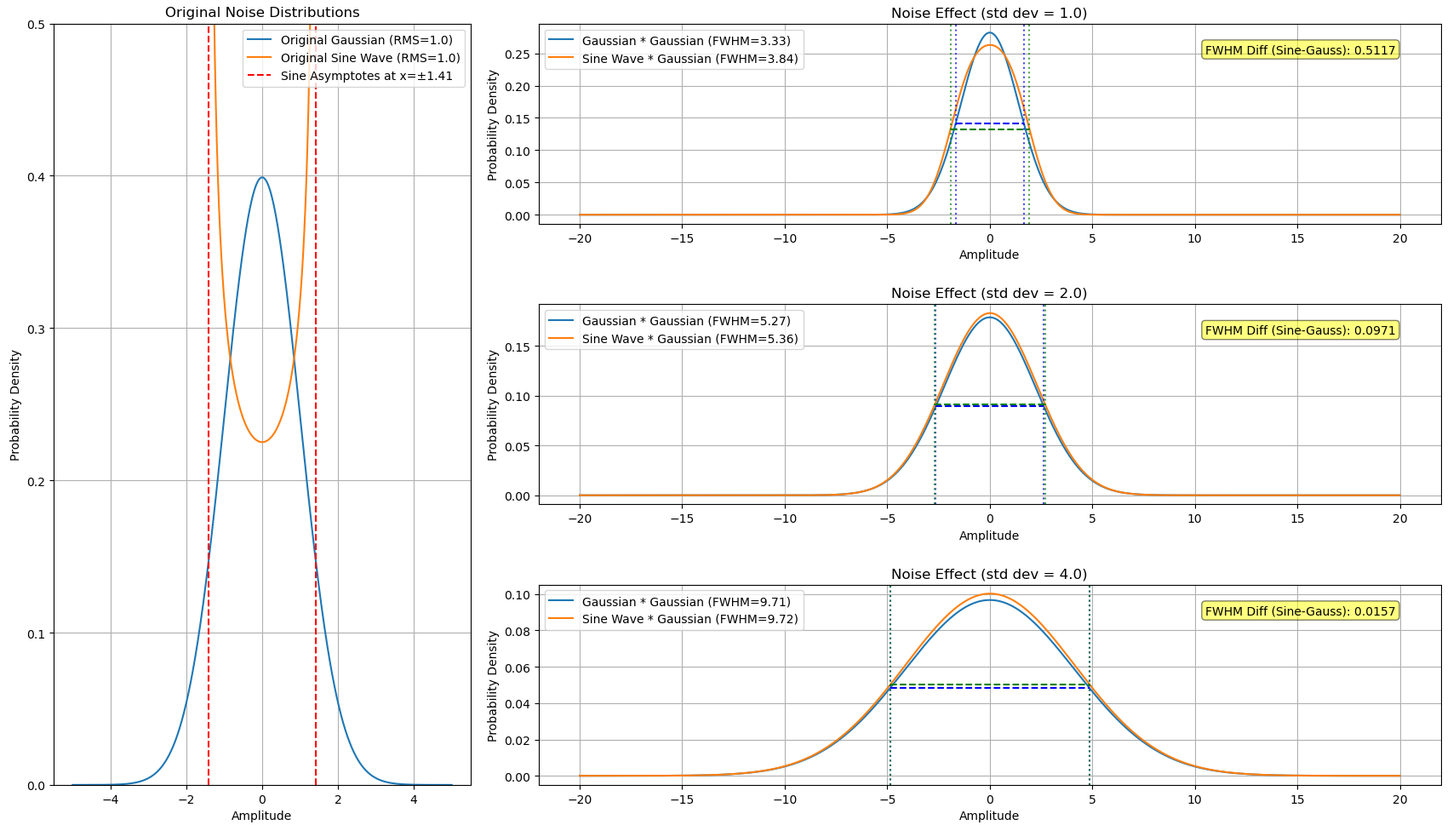
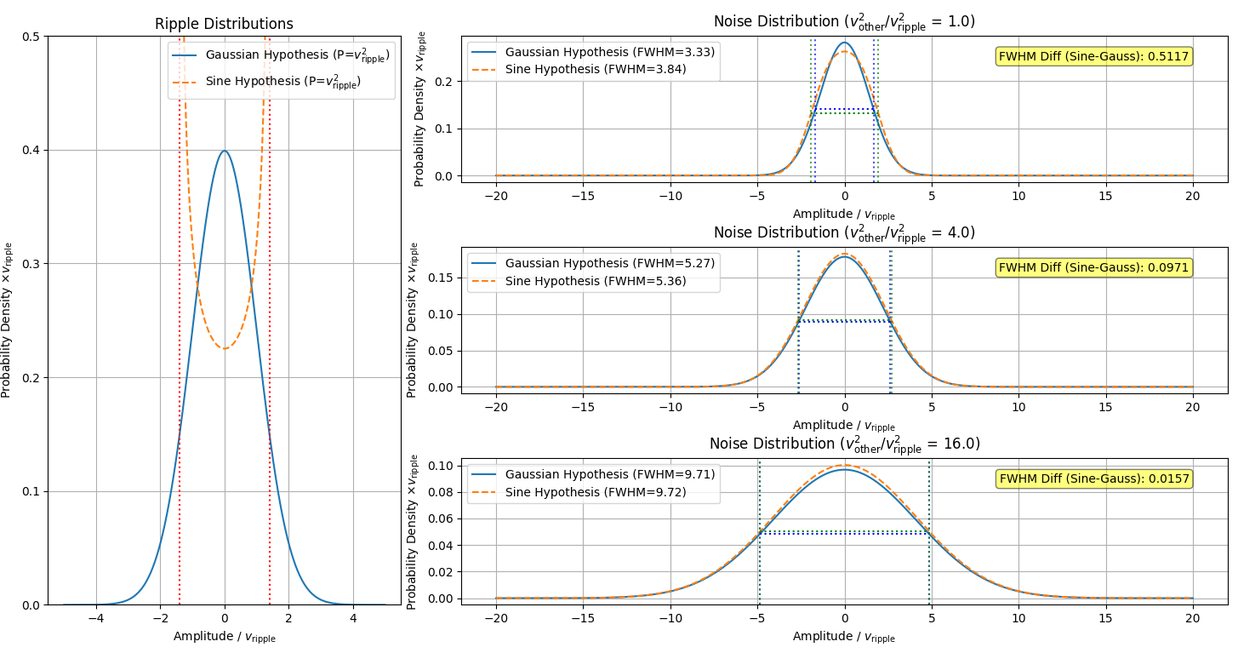
Update .gitignore, enhance FWHM analysis, and refine noise distribution plots
- Added test file patterns to .gitignore to exclude test artifacts.
- Improved plot labels in fwhm_analysis.py for clarity and consistency.
- Updated noise_distribution.py to enhance plot titles and labels for better understanding.
- Adjusted simulation script in main.py to utilize a new CircuitSimulator class for cleaner code and improved simulation management.
- Added new images for documentation and analysis results.

diff --git a/sys_simulate/circuit_simulator.py b/sys_simulate/circuit_simulator.py
@@ -1,0 +1,70 @@
+import os
+import numpy as np
+from PySpice.Spice.Netlist import Circuit
+from PySpice.Unit import *
+
+class CircuitSimulator:
+    """
+    Handles the PySpice circuit simulation.
+    """
+    def __init__(self, step_time=1@u_us, end_time=3000@u_ms):
+        """
+        Initializes the simulator with timing parameters.
+        """
+        self.script_dir = os.path.dirname(os.path.abspath(__file__))
+        self.step_time = step_time
+        self.end_time = end_time
+        self.output_filename = os.path.join(self.script_dir, 'simulation_output_temp.csv')
+
+    def _setup_circuit(self, ripple_amplitude_V, ripple_frequency_Hz):
+        """
+        Sets up the circuit with specific ripple parameters.
+        """
+        circuit = Circuit('Circuit Simulation for FWHM Analysis')
+        library_path = os.path.join(self.script_dir, 'UniversalOpAmp2.lib')
+        circuit.include(library_path)
+        circuit_path = os.path.join(self.script_dir, 'my_circuit.cir')
+        circuit.include(circuit_path)
+        
+        # Add sources
+        circuit.PulseCurrentSource('charge_injection_pulse', 'N006', 'N003',
+                                   initial_value=0@u_A, pulsed_value=0.4@u_uA,
+                                   delay_time=0.1@u_ms, rise_time=1@u_ns, fall_time=1@u_ns,
+                                   pulse_width=1@u_us, period=0.987@u_ms)
+        circuit.SinusoidalVoltageSource('ripple', 'Vin', circuit.gnd,
+                                        amplitude=ripple_amplitude_V@u_V,
+                                        frequency=ripple_frequency_Hz@u_Hz)
+        return circuit
+
+    def run_simulation(self, ripple_amplitude_V, ripple_frequency_Hz):
+        """
+        Runs the simulation and saves the output to a CSV file.
+        
+        Args:
+            ripple_amplitude_V (float): The amplitude of the ripple voltage in Volts.
+            ripple_frequency_Hz (float): The frequency of the ripple in Hertz.
+            
+        Returns:
+            str: The path to the output CSV file.
+        """
+        circuit = self._setup_circuit(ripple_amplitude_V, ripple_frequency_Hz)
+        simulator = circuit.simulator(temperature=25, nominal_temperature=25)
+        analysis = simulator.transient(step_time=self.step_time, end_time=self.end_time)
+
+        output_data = np.vstack((
+            np.array(analysis.time),
+            np.array(analysis['Vin']),
+            np.array(analysis['Vout'])
+        )).T
+        
+        np.savetxt(self.output_filename, output_data,
+                   delimiter=',', header='time_s,vin_V,vout_V', comments='')
+        
+        return self.output_filename
+
+    def cleanup(self):
+        """
+        Removes the temporary simulation output file.
+        """
+        if os.path.exists(self.output_filename):
+            os.remove(self.output_filename)

diff --git a/sys_simulate/main.py b/sys_simulate/main.py
@@ -6,6 +6,7 @@ from PySpice.Unit import *
 
 from analyze_spectrum import SpectrumAnalyzer
 from ripple_calculation import RippleCalculator
+from circuit_simulator import CircuitSimulator
 
 def run_simulation_and_analysis(ripple_amplitude_V, ripple_frequency_Hz, noise_kev, calculator, plotFig=False, plotWave=False):
     """
@@ -13,30 +14,8 @@ def run_simulation_and_analysis(ripple_amplitude_V, ripple_frequency_Hz, noise_k
     Also calculates the theoretical FWHM for comparison.
     """
     # --- 1. Run PySpice Simulation ---
-    # (Simulation logic remains the same)
-    circuit = Circuit('Circuit Simulation for FWHM Analysis')
-    script_dir = os.path.dirname(os.path.abspath(__file__))
-    library_path = os.path.join(script_dir, 'UniversalOpAmp2.lib')
-    circuit.include(library_path)
-    circuit_path = os.path.join(script_dir, 'my_circuit.cir')
-    circuit.include(circuit_path)
-    circuit.PulseCurrentSource('charge_injection_pulse', 'N006', 'N003',
-                               initial_value=0@u_A, pulsed_value=0.4@u_uA,
-                               delay_time=0.1@u_ms, rise_time=1@u_ns, fall_time=1@u_ns,
-                               pulse_width=1@u_us, period=0.987@u_ms)
-    circuit.SinusoidalVoltageSource('ripple', 'Vin', circuit.gnd, 
-                                    amplitude=ripple_amplitude_V@u_V, 
-                                    frequency=ripple_frequency_Hz@u_Hz)
-    simulator = circuit.simulator(temperature=25, nominal_temperature=25)
-    analysis = simulator.transient(step_time=1@u_us, end_time=3000@u_ms)
-    output_filename = os.path.join(script_dir, 'simulation_output_temp.csv')
-    output_data = np.vstack((
-        np.array(analysis.time),
-        np.array(analysis['Vin']),
-        np.array(analysis['Vout'])
-    )).T
-    np.savetxt(output_filename, output_data,
-               delimiter=',', header='time_s,vin_V,vout_V', comments='')
+    simulator = CircuitSimulator()
+    output_filename = simulator.run_simulation(ripple_amplitude_V, ripple_frequency_Hz)
 
     # --- 2. Analyze Simulation Output ---
     analyzer = SpectrumAnalyzer(threshold=1.0)
@@ -44,7 +23,7 @@ def run_simulation_and_analysis(ripple_amplitude_V, ripple_frequency_Hz, noise_k
     analyzer.analyze(fit_spectrum=True)
     analyzer.add_gaussian_noise(noise_kev=noise_kev, enabled=True)
     analyzer.plot_results(show_waveform=plotWave, show_plot=plotFig)
-    os.remove(output_filename)
+    simulator.cleanup()
     simulated_fwhm = analyzer.last_fwhm_kev
 
     # --- 3. Calculate Theoretical FWHM ---

diff --git a/noise_distribution.py b/noise_distribution.py
@@ -29,11 +29,11 @@ def plot_noise_comparison(v=1.0, v_conv_list=[1.0, 2.0, 4.0]):
     with np.errstate(divide='ignore'):
         sine_pdf[sine_domain_mask] = 1 / (np.pi * np.sqrt(A**2 - x_sine_left**2))
 
-    ax_left.plot(x_left / v, gaussian_pdf * v, label=r'Original Gaussian (RMS=$v_{\text{ripple}}$)')
-    ax_left.plot(x_left / v, sine_pdf * v, linestyle='--', label=r'Original Sine Wave (RMS=$v_{\text{ripple}}$)')
-    ax_left.axvline(x=A / v, color='r', linestyle=':', label=r'Sine Asymptotes at x=$\pm\sqrt{2}v_{\text{ripple}}$')
+    ax_left.plot(x_left / v, gaussian_pdf * v, label=r'Gaussian Hypothesis (P=$v_{\text{ripple}}^2$)')
+    ax_left.plot(x_left / v, sine_pdf * v, linestyle='--', label=r'Sine Hypothesis (P=$v_{\text{ripple}}^2$)')
+    ax_left.axvline(x=A / v, color='r', linestyle=':')
     ax_left.axvline(x=-A / v, color='r', linestyle=':')
-    ax_left.set_title('Original Noise Distributions')
+    ax_left.set_title('Ripple Distributions')
     ax_left.set_xlabel(r'Amplitude / $v_{\text{ripple}}$')
     ax_left.set_ylabel(r'Probability Density $\times v_{\text{ripple}}$')
     ax_left.legend()
@@ -81,8 +81,8 @@ def plot_noise_comparison(v=1.0, v_conv_list=[1.0, 2.0, 4.0]):
             fwhm_sine = np.nan
 
         # --- 绘图 ---
-        ax.plot(x_right / v, gaussian_convolved * v, label=f'Gaussian * Gaussian (FWHM={fwhm_gaussian/v:.2f})')
-        ax.plot(x_right / v, sine_convolved * v, linestyle='--', label=f'Sine Wave * Gaussian (FWHM={fwhm_sine/v:.2f})')
+        ax.plot(x_right / v, gaussian_convolved * v, label=f'Gaussian Hypothesis (FWHM={fwhm_gaussian/v:.2f})')
+        ax.plot(x_right / v, sine_convolved * v, linestyle='--', label=f'Sine Hypothesis (FWHM={fwhm_sine/v:.2f})')
         
         # FWHM 辅助线 - 高斯
         max_gauss_conv = np.max(gaussian_convolved)
@@ -108,7 +108,7 @@ def plot_noise_comparison(v=1.0, v_conv_list=[1.0, 2.0, 4.0]):
                     transform=ax.transAxes,
                     bbox=dict(boxstyle='round,pad=0.3', fc='yellow', alpha=0.5))
         
-        ax.set_title(f'Convolved Distribution (Gaussian std dev = {v_conv/v:.1f}' + r'$v_{\text{ripple}}$' + ')')
+        ax.set_title(f'Noise Distribution ($v^2_\mathrm{{other}}/v^2_\mathrm{{ripple}}$ = {(v_conv/v)**2:.1f}'+')')
         ax.set_xlabel(r'Amplitude / $v_{\text{ripple}}$')
         ax.set_ylabel(r'Probability Density $\times v_{\text{ripple}}$')
         ax.legend()

diff --git a/fwhm_analysis.py b/fwhm_analysis.py
@@ -92,15 +92,16 @@ def plot_fwhm_analysis(v_ratios, fwhm_diff_ratios):
     绘制 FWHM 相对差值 vs. (v_conv/v)^2 的关系图。
     """
     plt.figure(figsize=(10, 6))
-    plt.plot(v_ratios, fwhm_diff_ratios, 'bo-', label='Numerical Calculation')
+    plt.plot(v_ratios, fwhm_diff_ratios, 'bo-')
     
     plt.title('Relative FWHM Broadening: Sine vs. Gaussian Noise')
-    plt.xlabel(r'$v_{conv}^2 / v_\text{ripple}^2$ ((Detector Noise / Signal Noise)$^2$)')
+    plt.xlabel(r'$v_\mathrm{{other}}^2 / v_\mathrm{{ripple}}^2$')
     plt.ylabel('$(FWHM_{sine} - FWHM_{gauss}) / FWHM_{gauss, orig}$')
     plt.grid(True)
     plt.xscale('log') # v_conv/v 跨越数量级，使用对数坐标轴更佳
     plt.legend()
     plt.tight_layout()
+    plt.xlim(1e-2, 1e4)
     plt.show()
 
 if __name__ == '__main__':

diff --git a/draft/全文.md b/draft/全文.md
@@ -2,21 +2,21 @@
 
 ## 1 引言
 
-粒子辐射探测在空间物理、高能粒子物理及医学成像等领域至关重要[1，2，3]。粒子辐射探测器依赖高压电源，以扩大耗尽区并在耗尽区内形成强电场，驱动电离产生的电荷载流子(电子-空穴/离子对)向电极迁移，生成可测电信号。
+粒子辐射探测在空间物理、高能粒子物理及医学成像等领域至关重要[1，2，3]。粒子辐射探测器依赖高压开关电源，以扩大耗尽区并在耗尽区内形成强电场，驱动电离产生的电荷载流子(电子-空穴/离子对)向电极迁移，生成可测电信号。
 
-高压电源纹波通过各种耦合机制影响探测器输出，增加噪声，降低信噪比，并导致数据失真[4]。低纹波的高压电源可以确保探测器耗尽区电场的时间一致性，使载流子的漂移稳定;同时减少耦合到输出端的噪声，提高信噪比及能量分辨率[5]。以前人们对高压电源纹波对粒子辐射探测器系统噪声的影响的研究定性居多，缺少定量研究[6，7]。本文将从Si-PIN 型粒子辐射探测器电路结构出发，建立从高压电源纹波到探测器系统输出噪声的定量理论模型，并通过仿真和实验验证其适用性，为提升粒子辐射探测器的测量精度提供理论参考。
+高压开关电源纹波通过各种耦合机制影响探测器输出，增加噪声，降低信噪比，并导致数据失真[4]。低纹波的高压开关电源可以确保探测器耗尽区电场的时间一致性，使载流子的漂移稳定;同时减少耦合到输出端的噪声，提高信噪比及能量分辨率[5]。以前人们对高压开关电源纹波对粒子辐射探测器系统噪声的影响的研究定性居多，缺少定量研究[6，7]。本文将从Si-PIN 型粒子辐射探测器电路结构出发，建立从高压开关电源纹波到探测器系统输出噪声的定量理论模型，并通过系统仿真验证其适用性，为提升粒子辐射探测器的测量精度提供理论参考。
 
 ## 2 理论分析
 
 ### 2.1 电路分析
 
-对于 Si-PIN 型粒子辐射探测器系统，与高压电源纹波相关的电路可以大致分为电源滤波电路、电荷敏感前置放大器和整形放大电路三个部分，如图X所示。
+对于 Si-PIN 型粒子辐射探测器系统，与高压开关电源纹波相关的电路可以大致分为电源滤波电路、电荷敏感前置放大器和整形放大电路三个部分，如图X所示。
 
-![图X 高压电源纹波在探测器中的耦合过程]()
+![图X 高压开关电源纹波在探测器中的耦合过程](./overall_system.png)
 
-图1所示为电源滤波电路的等效电路，可以看作由两个RC 低通滤波器级联而成的二阶滤波架构，用于抑制高频噪声[8]。高压电源由BBV输入，经过该滤波网络后，通过H1端子为探测器提供偏置电压。
+图1所示为电源滤波电路的等效电路，可以看作由两个RC 低通滤波器级联而成的二阶滤波架构，用于抑制高频噪声[8]。高压开关电源由BBV输入，经过该滤波网络后，通过H1端子为探测器提供偏置电压。
 
-![图1 电源滤波等效电路](placeholder)
+![图1 电源滤波等效电路](./power_filter.png)
 
 图2所示为探测器与电荷敏感前置放大器的结构，探测器可以等效为一个二极管和结电容 $C_{\mathrm{d}}$ 并联。在完全耗尽的情况下，结电容 $C_{\mathrm{d}}$ 可由下式计算[14]:
 
@@ -26,7 +26,7 @@ $$
 
 其中 $A_{\mathrm{s}}$ 为探测器的等效正对面积(通常在 mm² 量级)，$D_{\mathrm{d}}$ 为探测器厚度(通常在 um 量级)。由此可计算得 $C_{\mathrm{d}}$ 通常在 pF 量级。
 
-![图2 探测器与电荷敏感前置放大器](placeholder)
+![图2 探测器与电荷敏感前置放大器](./detector.png)
 
 偏置电压 $V_{\mathrm{bias}}$ 的大小与探测器的厚度有关。耗尽层厚度 d 与偏置电压的关系为 $d = \sqrt{2\varepsilon_0\varepsilon_{\mathrm{r}}\mu V_{\mathrm{bias}} / \rho}$ [14]，为了使探测器完全耗尽，偏置电压至少应该满足
 
@@ -48,9 +48,9 @@ $C_{\mathrm{x}}$为隔直电容，其容值通常在nF到uF量级，用于阻隔
 
 ### 2.2 纹波模型
 
-如图X1所示，开关电源的纹波通常表现为周期性的锯齿波，主要由开关器件的 PWM 控制所引起[10]，其波形的上升沿和下降沿的斜率取决于开关频率、占空比以及控制策略，并直接决定了纹波幅度及其频谱分布[11]。
+如图X1所示，高压开关电源的纹波通常表现为周期性的锯齿波，主要由开关器件的 PWM 控制所引起[10]，其波形的上升沿和下降沿的斜率取决于开关频率、占空比以及控制策略，并直接决定了纹波幅度及其频谱分布[11]。
 
-![图X1 纹波波形](./ripple.png)
+![图X1 高压开关电源纹波波形](./ripple.png)
 
 为便于分析，将纹波波形等效为频率、功率相同的正弦波。实际观测到的纹波波形近似为锯齿波，其电压随时间线性变化。对于峰峰值为 $V_{\mathrm{ripple}}$、周期为 $T$ 的锯齿波，其电压可表示为 $v(t) = \frac{V_{\mathrm{ripple}}}{T}t - \frac{V_{\mathrm{ripple}}}{2}$（其中 $t \in [0, T]$）。该波形的归一化平均功率（即均方电压 $V_{\mathrm{rms}}^2$）为
 \[
@@ -70,10 +70,10 @@ V_{\mathrm{pp,sin}} = \sqrt{\frac{8}{12}}V_{\mathrm{ripple}} = \sqrt{\frac{2}{3}
 
 为定量计算高压开关电源纹波对探测器系统输出噪声的影响，需基于线性电路理论，分析其通过后续电路中频率响应[12]。具体方法为:首先建立纹波传播路径的传递函数模型，再将其与纹波电压频谱相乘，即可得到输出端信号的特征。
 电源电压从电源滤波电路的输入端接入，可将其等效为一个叠加于直流高压上的小幅值正弦交流电压源，并设其幅值为 $v_{\mathrm{ripple}}$，频率为 $f_{\mathrm{ripple}}$。
-电源滤波电路可建模为两个 RC 滤波器级的级联。式（4）为电源滤波电路的传递函数。
+电源滤波电路可建模为两个 RC 滤波器级的级联。电源滤波电路的传递函数为
 
 $$
-H_\text{powerFilter}(f) = \frac{1}{1 + j2\pi f R_1 C_1} \cdot \frac{1}{1 + j2\pi f R_2 C_2} \quad (4)
+H_\text{powerFilter}(f) = \frac{1}{1 + j2\pi f R_1 C_1} \cdot \frac{1}{1 + j2\pi f R_2 C_2}
 $$
 
 接下来分析偏置电压纹波耦合至 CSA 输出端的频率响应。在 $V_{\mathrm{bias}}$ 处叠加频率为 $f$ 的小幅值交流电压源 $u$，考虑到运算放大器的理想特性，其反相输入端为虚地，故认为该点电势为0。可求得探测器阳极电压$u_1$为
@@ -91,19 +91,19 @@ $$
 联立式(5)(6)，可得输出电压 $u_2$ 的表达式为
 
 $$
-u_2 = - \frac{j2\pi f C_{\mathrm{d}} R_{\mathrm{b}}}{(1 + j2\pi f C_{\mathrm{d}} R_{\mathrm{b}} + j2\pi f C_{\mathrm{d}} R_{\mathrm{b}})(j2\pi f C_{\mathrm{f}}(R_{\mathrm{s}} + 1/j2\pi f C_{\mathrm{f}}))} \quad (7)
+u_2 = - \frac{j2\pi f C_{\mathrm{d}} R_{\mathrm{b}}}{(1 + j2\pi f C_{\mathrm{d}} R_{\mathrm{b}} + j2\pi f C_{\mathrm{d}} R_{\mathrm{b}})(j2\pi f C_{\mathrm{f}}(R_{\mathrm{s}} + 1/j2\pi f C_{\mathrm{f}}))}
 $$
 
-从而，从探测器偏置端到 CSA 输出端的纹波耦合传递函数为式（8）。
+从而，从探测器偏置端到 CSA 输出端的纹波耦合传递函数为
 
 $$
-H_\text{csa}(f) = \frac{u_2}{u} = - \frac{j2\pi f C_{\mathrm{d}} R_{\mathrm{b}}}{(1 + j2\pi f C_{\mathrm{d}} R_{\mathrm{b}} + j2\pi f C_{\mathrm{d}} R_{\mathrm{b}})(j2\pi f C_{\mathrm{f}}(R_{\mathrm{s}} + 1/j2\pi f C_{\mathrm{f}}))} \quad (8)
+H_\text{csa}(f) = \frac{u_2}{u} = - \frac{j2\pi f C_{\mathrm{d}} R_{\mathrm{b}}}{(1 + j2\pi f C_{\mathrm{d}} R_{\mathrm{b}} + j2\pi f C_{\mathrm{d}} R_{\mathrm{b}})(j2\pi f C_{\mathrm{f}}(R_{\mathrm{s}} + 1/j2\pi f C_{\mathrm{f}}))}
 $$
 
-接下来计算整形放大电路的响应。假设整形电路的波形成形时间为$\tau$，增益为$A_0$，可计算其传递函数为式（9）。
+接下来计算整形放大电路的响应。假设整形电路的波形成形时间为$\tau$，增益为$A_0$，可计算其传递函数为
 
 $$
-H_\text{shaper}(f) = A_0 \frac{j2\pi f \tau}{(1 + j2\pi f \tau)^2} \quad (9)
+H_\text{shaper}(f) = A_0 \frac{j2\pi f \tau}{(1 + j2\pi f \tau)^2}
 $$
 
 综合考虑各级电路的频率响应，最终输出的纹波幅值为
@@ -115,7 +115,7 @@ $$
 换算成以 eV 为单位的半峰全宽（Full Width at Half Maximum, FWHM）[13]得
 
 $$
-\mathrm{FWHM} = 2.35\times3.62\times \frac{\mathrm{ENC}}{q} = 8.5 \cdot \frac{e\cdot v_{\mathrm{ripple,out}} \cdot C_{\mathrm{f}}}{A_0q} \quad (12)
+\mathrm{FWHM} = 2.35\times3.62\times \frac{\mathrm{ENC}}{q} = 8.5 \cdot \frac{e\cdot v_{\mathrm{ripple,out}} \cdot C_{\mathrm{f}}}{A_0q}
 $$
 
 其中 $e$ 为自然常数，$C_{\mathrm{f}}$ 为反馈电容值，$q$ 为元电荷量。
@@ -126,20 +126,19 @@ $$
 
 ### 3.1 仿真算法
 
-本文搭建了如图X2所示的探测器系统Spice仿真电路，包含电源滤波电路、探测器、电荷敏感放大器、整形放大电路。其中V1代表高压电源纹波（等效为正弦波），Id代表粒子射入产生的电流。
+本文基于 PySpice 框架搭建了如图X2所示的探测器系统Spice仿真电路，包含了电源滤波电路、PIN光电二极管等效电路、电荷敏感放大器及整形放大电路。小幅值正弦交流电压源V1模拟高压开关电源纹波，脉冲电流源Id模拟粒子射入产生的电流。
 
 ![图X2 探测器系统仿真电路](./circ_sim.png)
 
-本文设置Id为幅值$0.4\mathrm{\mu A}$，脉冲宽度$1\mathrm{\mu s}$，频率$1\mathrm{kHz}$的脉冲方波（等效为每秒1000个能量为$9.05\mathrm{MeV}$的粒子射入），其在探测器输出Vout的响应应为类高斯形脉冲（如图X3所示），其幅值与Id成正比。本文读取输出脉冲的高度并计数，模拟真实探测器的输出结果。
+根据探测器收到的粒子能量，仿真将Id设置为幅值$0.4\mathrm{\mu A}$、脉冲宽度$1\mathrm{\mu s}$、周期$0.987\mathrm{ms}$（频率约为$1013\mathrm{Hz}$）的脉冲电流，用以模拟$9.05\mathrm{MeV}$的粒子以每秒约1000个的通量射入探测器。系统对该电流脉冲的响应为在输出端Vout产生一个类高斯形的电压脉冲（如图X3所示），脉冲高度与粒子能量成正比。
 
 ![图X3 探测器输出响应](./circ_sim_response.png)
 
-将纹波V1分别设置为不同幅值和不同频率，并测量其对探测器输出Vout的影响，得到的结果如图X4所示。
+为模拟真实探测器的信号处理过程，本文对瞬态仿真输出波形进行分析，设置阈值（1.0V）来识别并测量每个输出脉冲的峰高，并将收集到的所有脉冲峰高数据构建成能谱。电源纹波会导致输出脉冲的基线波动，从而使能谱的峰位展宽。本文以能谱峰的FWHM作为关键指标，定量评估不同参数的纹波对探测器能量分辨率的影响。为更准确地反映真实探测器性能，本文在仿真中引入了额外的高斯噪声，以模拟电子学噪声等系统固有噪声源。此外，由于电源纹波并非高斯白噪声，导致的能谱展宽具有非高斯特性，直接计算FWHM存在困难，叠加高斯噪声可使展宽峰形近似于高斯分布，便于计算FWHM。关于纹波非高斯性的详细讨论见3.3节。图X4为纹波幅值$3.0\mathrm{V}$，纹波频率$10\mathrm{kHz}$，固有噪声$5.00\mathrm{keV}$的能谱结果，测得总噪声FWHM为$6.98\mathrm{keV}$，即纹波引入的噪声为$\sqrt{6.98^2-5.00^2}\mathrm{keV}\approx4.87\mathrm{keV}$。
 
-![图X4 纹波对探测器输出Vout的影响](./circ_sim_result.png)
+![图X4 探测器能谱结果](./circ_sim_fwhm.png)
 
-
-表1为仿真电路元件的各项参数。
+仿真使用的电路元件参数见表1。
 
 | 变量名 | 值 | 解释 |
 | :--- | :--- | :--- |
@@ -157,74 +156,35 @@ $$
 
 ### 3.2 仿真结果
 
+本文分别对纹波幅值$1.0\mathrm{V}$至$10.0\mathrm{V}$，纹波频率$100\mathrm{Hz}$至$100\mathrm{kHz}$的纹波对探测器输出Vout的影响进行了仿真，每次仿真3秒（约3000个峰值），并将仿真结果与理论计算结果进行比较，如图X5所示。虽然仿真结果在低频段（$<10\mathrm{kHz}$）显著小于理论结果，但在高频段（$>10\mathrm{kHz}$）与理论结果基本吻合，最高误差不超过5%。
 
+高压开关电源纹波的典型频率在60～300kHz之间[X1]，因此本文得出的模型对于高压开关电源纹波的适用性良好。
 
-### 3.3 高压电源纹波非随机性影响分析
+![图X5 纹波对探测器输出Vout的影响](./circ_sim_result.png)
 
-在噪声分析中，通常将噪声源视为高斯随机噪声，以便于将其功率换算成FWHM。但高压电源纹波通常包含确定的周期性分量(锯齿波或方波)，并非高斯随机噪声，因此由功率换算得到的FWHM是存在误差的。本节将分析高压电源纹波非高斯性的影响。
-如图5所示，本文中使用的高压电源纹波含有显著的方波分量。对其幅值分布进行统计，得到的结果如图9所示，呈现双峰分布的特征，与单峰高斯分布差异显著。
+### 3.3 纹波非高斯性影响分析
 
-![图9 电源纹波幅值分布](placeholder)
+在噪声分析中，通常将噪声源视为高斯白噪声[12]，其耦合到探测器输出端形成高斯形的能峰，可由FWHM衡量。但高压开关电源纹波通常包含确定的周期性分量(锯齿波或方波)，并非高斯白噪声，其耦合到探测器输出端通常成为基频谐波，无法直接用FWHM衡量。
 
-为模拟纹波在探测器系统耦合过程中的幅值分布变化，本文模拟了电源滤波电路的滤波过程，将实测纹波时域数据通过FFT变换为频域，通过(4)式进行滤波，再将结果变换为时域波形，得到的结果如图10和图11所示。经电源滤波电路滤波后，纹波幅值的分布更接近于单峰高斯分布。
+设纹波耦合到探测器输出端的功率为$v_\text{ripple}^2$，假设成为正弦波，则幅值分布为\[P_\text{sine}(x)=\frac{1}{\pi\sqrt{2v_\text{ripple}^2-x^2}}\]
 
-尽管滤波后的幅值分布并非是标准的高斯分布，但仿真结果表明，高压电源纹波引入的噪声仅约1keV，在总输出噪声中占比较小，因此纹波非高斯性引入的误差是可接受的。
+假设为高斯白噪声，则幅值分布为\[P_\text{gaussian}(x)=G(0, v_\text{ripple}^2)\]
 
-![图10 电源滤波电路对纹波波形的影响](placeholder)
-![图11 电源滤波电路对纹波幅值分布的影响](placeholder)
+设输出端固有噪声功率为$v_\text{other}^2$，两种假设下幅值分布分别为\[P_\text{total,sine}(x)=P_\text{sine}(x)*G(0, v_\text{other}^2)\]和\[P_\text{total,gaussian}(x)=P_\text{gaussian}(x)*G(0, v_\text{other}^2)=G(0, v_\text{other}^2+v_\text{ripple}^2)\]
 
-## 4 实验验证
+图X6、图X7展示了在两种假设下，在探测器输出端存在不同功率固有噪声时，纹波耦合到探测器输出端的幅值分布以及总FWHM差异。当固有噪声的功率超过纹波噪声两倍时，两种假设下的FWHM差异在5%以内，可以认为纹波非高斯性引入的误差是可接受的；当固有噪声的功率低于纹波噪声两倍时，两种假设下的FWHM差异最高可达约31%，需要考虑纹波非高斯性引入的误差。
 
-在仿真分析的基础上，本文进一步使用实际高压电源及Si-PIN型粒子辐射探测器电路，实测高压电源纹波对探测器输出噪声的影响，以验证理论模型的适用性。
+![图X6 纹波耦合到输出端的幅值分布区别](./non_gausian_effect.png)
 
-本实验所采用的探测器电路结构与第2节所述基本相同。为隔离出高压电源纹波的噪声贡献，避免探测器自身的噪声(如漏电流噪声、g-r噪声等)的干扰，本实验以2pF电容(相当于一个面积为20mm²，厚度为100μm的探测器)替代探测器元件，并在电容两端注入方波信号，以模拟粒子射入。具体结构如图12所示。电路元件参数详见表1。
+![图X7 纹波耦合到输出端的FWHM差异量化](./non_gausian_effect_num.png)
 
-实验线路连接示意如图13所示。信号发生器与电容(等效探测器)两端相连。探测器系统的输出信号传输至PC，在PC端进行数据采集与统计分析，获得噪声的FWHM数据。
+## 4 总结
 
-在本实验中，信号发生器产生了一系列不同幅度的1kHz方波信号，以模拟每秒1000个粒子射入。通过调节信号发生器的输出幅度，实现了不同强度的信号的输入，从而模拟探测器对不同能量粒子事件的响应，并测量相应的FWHM。
+本文对高压开关电源纹波在Si-PIN型粒子辐射探测器中引入的噪声进行了定量的分析，建立了一个从高压开关电源纹波到探测器系统输出噪声FWHM的定量理论模型，并通过系统仿真验证了模型的适用性。
 
-不接高压电源、接0V高压电源、接-200V高压电源实验结果分别如表2、表3、表4所示。对比表3，4，可知-200V的高压电源引入了约1keV的噪声，与数值仿真的结果(约1keV)一致，验证了本文所建立的从高压电源纹波到探测器输出噪声的理论模型的准确性。
+本文得出的结论为，高压开关电源纹波是探测器系统输出噪声的重要来源。在本文的参考电路中，峰峰值约800mV的纹波耦合到输出端，会产生keV量级的噪声。
 
-![图12 实验用探测器电路](placeholder)
-![图13 实验线路连接图](placeholder)
-
-**表2 不接高压电源的结果**
-| 信号强度 / keV | Peak / 道数 | FWHM / 道数 | FWHM / keV |
-| :--- | :--- | :--- | :--- |
-| 509.0625 | 9380 | 11 | 4.4726 |
-| 610.875 | 9126 | 11 | 4.4726 |
-| 712.6875 | 8874 | 10 | 4.066 |
-| 814.5 | 8624 | 11 | 4.4726 |
-| 916.3125 | 8379 | 11 | 4.4726 |
-| **平均 FWHM / keV** | | | **4.3912** |
-
-**表3 接 0V 高压电源的结果**
-| 信号强度 / keV | Peak / 道数 | FWHM / 道数 | FWHM / keV |
-| :--- | :--- | :--- | :--- |
-| 509.0625 | 9408 | 11 | 4.4726 |
-| 610.875 | 9146 | 11 | 4.4726 |
-| 712.6875 | 8887 | 11 | 4.4726 |
-| 814.5 | 8632 | 12 | 4.8792 |
-| 916.3125 | 8379 | 11 | 4.4726 |
-| **平均 FWHM / keV** | | | **4.55392** |
-
-**表4 接 -200V 高压电源的结果**
-| 信号强度 / keV | Peak / 道数 | FWHM / 道数 | FWHM / keV |
-| :--- | :--- | :--- | :--- |
-| 509.0625 | 9422 | 14 | 5.6924 |
-| 610.875 | 9150 | 14 | 5.6924 |
-| 712.6875 | 8899 | 13 | 5.2858 |
-| 814.5 | 8670 | 15 | 6.099 |
-| 916.3125 | 8419 | 13 | 5.2858 |
-| **平均 FWHM / keV** | | | **5.61108** |
-
-## 5 总结
-
-本文对高压电源纹波在Si-PIN型粒子辐射探测器中引入的输出噪声进行了定量的分析，建立了一个从纹波时域波形预测探测器系统输出噪声FWHM的数值模型，并通过实验验证了模型的准确性。
-
-本文得出的结论为，高压电源纹波是探测器系统输出噪声的重要来源。在本文的参考电路中，峰峰值约800mV的纹波耦合到输出端，会产生keV量级的噪声。
-
-本研究填补了高压电源纹波对粒子辐射探测器噪声影响定量分析的空白。本文所提出的理论模型与实验方法可为高性能粒子探测系统的低噪声电源设计提供重要的理论依据和设计参考。
+本研究填补了高压开关电源纹波对粒子辐射探测器噪声影响定量分析的空白。本文所提出的理论模型与仿真方法可为高性能粒子探测系统的低噪声电源设计提供重要的理论依据和设计参考。
 
 ## 参考文献
 [1] Aprile， E.， and T. Doke. "Liquid xenon detectors for particle physics and astrophysics." Reviews of Modern Physics 82.3 (2010): 2053-2097.
@@ -238,6 +198,8 @@ $$
 [9] C. H. Nowlin， "Pulse Shaping for Nuclear Pulse Amplifiers，" in IEEE Transactions on Nuclear Science， vol. 17， no. 1， pp. 226-241， Feb. 1970， doi: 10.1109/TNS.1970.4325584.
 [10] 董玉林 et al. “开关电源纹波和噪声的抑制”. In: 辽宁工业大学学报: 自然科学版 28.5 (2008)， p. 3.
 [11] Matsushita， Yoshinori et al. “Control of Dual-Output DC/DC Converters Using Duty Cycle and Frequency.” World Electric Vehicle Journal (2020): n. pag.
-[12] Kim， Woojung et al. “Differential mode noise modelling and analysis through high-frequency equivalent circuit of a single-phase inverter.” IET Power Electronics (2022): n. pag.
+[12] Denk G, Winkler R. Modelling and simulation of transient noise in circuit simulation[J]. Mathematical and Computer Modelling of Dynamical Systems, 2007, 13(4): 383-394. doi: 10.1080/13873950500064400.
 [13] Zhai， Qingtai . Development of a novel delta E-E particle identification telescope readout system. Diss. Boston University. 2007.
 [14] 曹学蕾，王焕玉，张承模，等.偏置电压对Si-PIN探测器的性能影响[J].核电子学与探测技术，2006，(06):796-800.
+[X1] Wang, Y.; Lucia, O.; Zhang, Z.; Gao, S.; Guan, Y.; Xu, D. A Review of High Frequency Power Converters and Related Technologies. IEEE Open Journal of the Industrial Electronics Society 2020, 1, 247–260. https://doi.org/10.1109/OJIES.2020.3023691.
+
